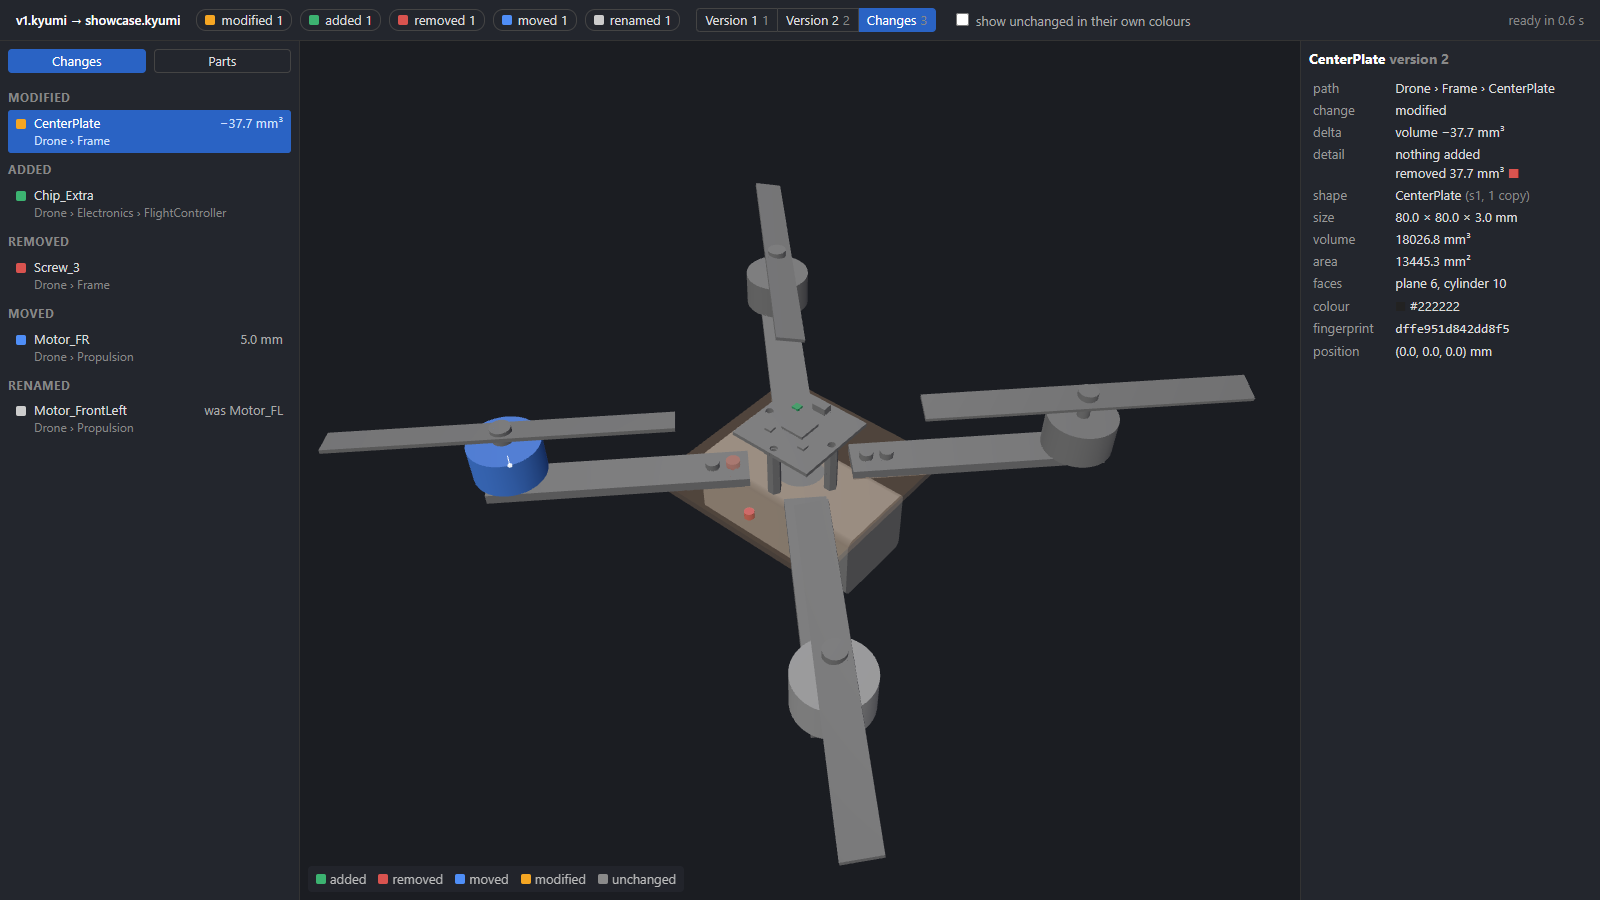
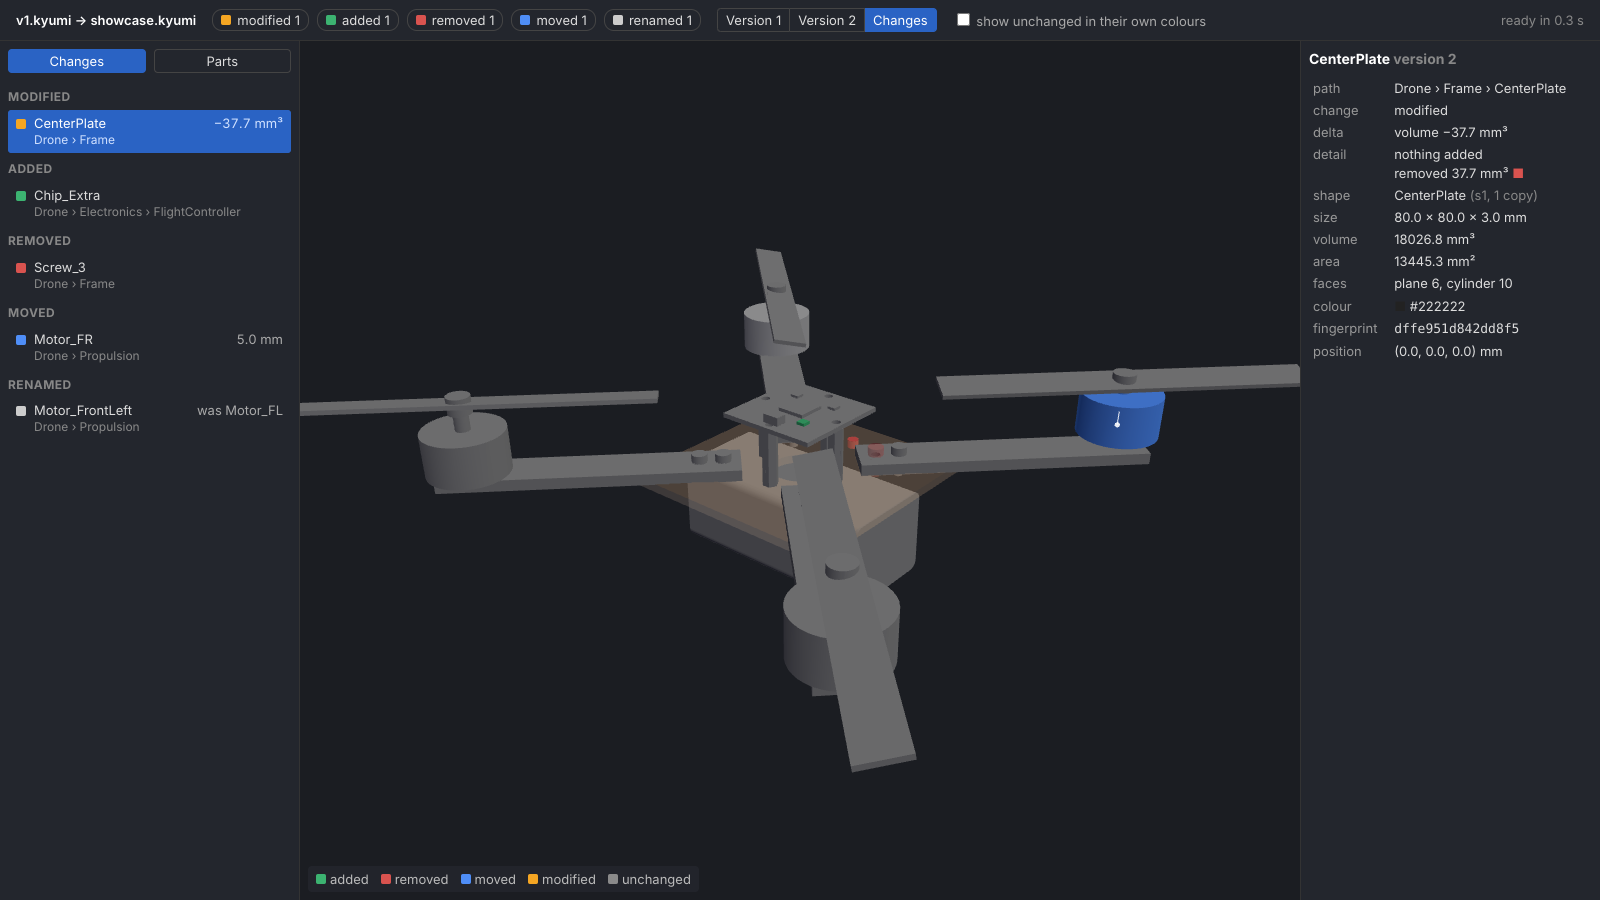
review: change list keeps a renamed part inside a moved group; ids not keys; detail only in Changes; README facts
- Change list: a part that inherits its group's move but has its own change
  (renamed) gets a row under that change; the chip said "renamed 1" and the
  list was empty.
- /changes.json: every status / old_status entry carries its parent id (same id
  space). The page walks the old tree and finds a removed row's parent by id;
  the key-prefix lookups are gone (keys collide: literal "Screw#1").
- Version 2 is the new model only: the red/green detail and the see-through part
  belong to Changes.
- Pressing 1 then 2 while Version 1 loads ends in Version 2 (last key wins).
- In Version 1 the selected change-list row stays lit (matched new id).
- Mode buttons no longer read "Version 1 1"; keys are in the tooltip and the
  info panel; one-file mode no longer advertises 1 / 2 / 3.
- README: real kyumi diff output, Python 3.11 or newer (py -m venv), the
  5,000-part number labelled synthetic and moved out of the real-model results,
  categorize described as categorizing, no "ten questions". Screenshots retaken.

Claude-Session: https://claude.ai/code/session_01KLxKaUQct9DFA2YFuACEbV

diff --git a/core/kyumi/viewer.html b/core/kyumi/viewer.html
@@ -20,7 +20,6 @@
   #modes button:first-child { border-radius: 4px 0 0 4px; }
   #modes button:last-child { border-radius: 0 4px 4px 0; }
   #modes button + button { border-left: none; }
-  #modes kbd { color: #888; font: inherit; margin-left: 4px; }
   #top label { color: #aaa; cursor: pointer; white-space: nowrap; }
   #ready { margin-left: auto; color: #888; white-space: nowrap; }
   #loading { color: #f5a623; white-space: nowrap; }
@@ -74,9 +73,9 @@
   <span id="files">loading…</span>
   <span id="chips"></span>
   <span id="modes" class="hidden">
-    <button data-mode="v1">Version 1<kbd>1</kbd></button>
-    <button data-mode="v2">Version 2<kbd>2</kbd></button>
-    <button data-mode="changes">Changes<kbd>3</kbd></button>
+    <button data-mode="v1" title="key 1">Version 1</button>
+    <button data-mode="v2" title="key 2">Version 2</button>
+    <button data-mode="changes" title="key 3">Changes</button>
   </span>
   <label id="unchangedLine" class="hidden"><input type="checkbox" id="unchanged"> show unchanged in their own colours</label>
   <span id="loading"></span>
@@ -211,7 +210,6 @@ if (diff) {
 // chosen, so the page is ready as fast as with one package.
 let oldModel = null;                          // /old/model.json, once loaded
 const oldById = new Map();                    // old id -> old node
-const oldChildrenOf = oldId => (oldModel ? oldModel.nodes.filter(n => n.parent === oldId) : []);
 const oldMeshes = new Map();                  // "old:<id>" -> THREE.Mesh (hidden unless mode is v1)
 let oldLoading = null;                        // the promise, so two quick presses load once
 function ensureOld() {
@@ -301,15 +299,19 @@ function applyMode() {
   for (const mesh of oldMeshes.values()) mesh.visible = v1;
   for (const mesh of ghosts.values()) mesh.visible = mode === "changes";
   for (const line of moveLines) line.visible = mode === "changes";
-  for (const mesh of detailMeshes) mesh.visible = !v1;
+  for (const mesh of detailMeshes) mesh.visible = mode === "changes";
   for (const b of document.querySelectorAll("#modes button")) b.classList.toggle("on", b.dataset.mode === mode);
 }
 
 // The selected part follows the switch when it exists on the other side; the
-// camera stays where it is.
+// camera stays where it is. The last key pressed wins: pressing 1 then 2 while
+// Version 1 is still loading ends in Version 2.
+let wanted = mode;
 async function setMode(next) {
-  if (!diff || next === mode) return;
+  if (!diff) return;
+  wanted = next;
   if (next === "v1") await ensureOld();
+  if (next !== wanted || next === mode) return;
   const was = selected;
   mode = next;
   applyMode();
@@ -384,13 +386,21 @@ function descendants(id) {
   for (const child of childrenOf(id)) out.push(...descendants(child.id));
   return out;
 }
-// Old descendants come from old_status keys (every old node has one), so a removed
-// group's ghosts can be found before /old/model.json has been fetched.
+// Old descendants come from old_status parent ids (every old node has an entry), so
+// a removed group's ghosts can be found before /old/model.json has been fetched.
+// By id, never by key: a literal "Screw#1" and the second "Screw" share a key.
+const oldChildIds = new Map();                // old id -> its children's old ids
+if (diff) {
+  for (const [id, s] of Object.entries(diff.old_status)) {
+    if (s.parent === null) continue;
+    if (!oldChildIds.has(s.parent)) oldChildIds.set(s.parent, []);
+    oldChildIds.get(s.parent).push(id);
+  }
+}
 function oldDescendants(oldId) {
-  const prefix = oldStatusOf(oldId).old_key;
-  return Object.entries(diff.old_status)
-    .filter(([, s]) => s.old_key.length >= prefix.length && prefix.every((k, i) => s.old_key[i] === k))
-    .map(([id]) => "old:" + id);
+  const out = ["old:" + oldId];
+  for (const child of oldChildIds.get(oldId) || []) out.push(...oldDescendants(child));
+  return out;
 }
 
 function select(id, reveal = true) {
@@ -404,14 +414,15 @@ function select(id, reveal = true) {
   for (const [nodeId, mesh] of meshes) { glow(mesh, lit.has(nodeId), 0.2); mesh.material.opacity = 1; }
   for (const [oldId, mesh] of oldMeshes) glow(mesh, lit.has(oldId), 0.2);
   for (const [ghostId, mesh] of ghosts) glow(mesh, lit.has(ghostId), 0.5);
-  const treeId = isOld ? oldStatusOf(id.slice(4)).new_id || null : id;  // the tree lists new ids
-  for (const row of document.querySelectorAll("#parts li > div")) {
+  // The tree and the change list name parts by new id (removed ones by "old:<id>"),
+  // so an old selection in Version 1 lights the row of its matched new id.
+  const treeId = isOld ? oldStatusOf(id.slice(4)).new_id || null : id;
+  for (const row of document.querySelectorAll("#parts li > div, .change")) {
     row.classList.toggle("selected", row.dataset.id === id || row.dataset.id === treeId);
   }
-  for (const row of document.querySelectorAll(".change")) row.classList.toggle("selected", row.dataset.id === id);
   for (const mesh of detailMeshes.splice(0)) scene.remove(mesh);
   if (id && !isOld && reveal) revealInTree(id);
-  if (id && !isOld) showDetail(id);
+  if (id && !isOld && mode === "changes") showDetail(id);   // detail belongs to Changes only
   showInfo(id);
 }
 
@@ -441,7 +452,7 @@ async function showDetail(id) {
     const mesh = new THREE.Mesh(geo, new THREE.MeshStandardMaterial({ color: colour, metalness: 0.1, roughness: 0.5 }));
     mesh.matrixAutoUpdate = false;
     mesh.matrix.fromArray(node.world);
-    mesh.visible = mode !== "v1";
+    mesh.visible = mode === "changes";
     scene.add(mesh);
     detailMeshes.push(mesh);
   }
@@ -468,21 +479,21 @@ function fmt(x, digits = 1) { return Number(x).toFixed(digits); }
 const signed = v => (v < 0 ? "−" : "+") + fmt(Math.abs(v));
 const keyText = key => key.map(k => k || "(unnamed)").join(" › ");
 
-// One row per change: a moved group is one row (its parts only inherit), an added
-// or removed group is one row (its parts are inside it).
+// One row per change. A part that only rides along with its moved group has no row
+// of its own (the group's row covers it), but one with its own change inside that
+// group (renamed) keeps a row under that change. An added or removed group is one
+// row (its parts are inside it). Parents are looked up by id, never by key.
 function changeRows() {
   const rows = [];
   for (const [id, st] of Object.entries(diff.status)) {
-    if (!st.class || st.inherited) continue;
-    const parent = byId.get(id).parent;
-    if (st.class === "added" && parent && statusOf(parent).class === "added") continue;
-    rows.push({ id, kind: st.class, kinds: st.class === "added" ? ["added"] : st.tags, key: st.new_key, st });
+    const kind = st.inherited ? KINDS.find(k => st.tags.includes(k)) : st.class;
+    if (!kind) continue;
+    if (kind === "added" && st.parent !== null && statusOf(st.parent).class === "added") continue;
+    rows.push({ id, kind, kinds: kind === "added" ? ["added"] : st.tags, key: st.new_key, st });
   }
   for (const [oldId, st] of Object.entries(diff.old_status)) {
     if (st.class !== "removed") continue;
-    const parentKey = st.old_key.slice(0, -1);
-    const parent = Object.values(diff.old_status).find(s => s.old_key.length === parentKey.length && s.old_key.every((k, i) => k === parentKey[i]));
-    if (parent && parent.class === "removed") continue;
+    if (st.parent !== null && oldStatusOf(st.parent).class === "removed") continue;
     rows.push({ id: "old:" + oldId, kind: "removed", kinds: ["removed"], key: st.old_key, st });
   }
   rows.sort((a, b) => KINDS.indexOf(a.kind) - KINDS.indexOf(b.kind) || keyText(a.key).localeCompare(keyText(b.key)));
@@ -659,7 +670,8 @@ function showInfo(id) {
   const info = $("info");
   if (!id) {
     const hint = diff ? "Click a change in the list, or a part in the 3D view." : "Click a part in the 3D view or in the tree.";
-    info.innerHTML = `<h2>Nothing selected</h2><p class="dim">${hint}<br>${model.nodes.length} nodes, ${Object.keys(model.shapes).length} unique shapes.<br>Keys: 1 / 2 / 3 modes, F frame, Esc clear.</p>`;
+    const keys = diff ? "Keys: 1 / 2 / 3 modes, F frame, Esc clear." : "Keys: F frame, Esc clear.";
+    info.innerHTML = `<h2>Nothing selected</h2><p class="dim">${hint}<br>${model.nodes.length} nodes, ${Object.keys(model.shapes).length} unique shapes.<br>${keys}</p>`;
     return;
   }
   const isOld = id.startsWith("old:");

diff --git a/diff/tests/test_view.py b/diff/tests/test_view.py
@@ -222,6 +222,13 @@ def test_every_old_node_gets_the_class_expected_json_implies(
         assert entry["class"] != "added"
     for entry in payload["status"].values():
         assert entry["class"] != "removed"
+    # Each entry's parent is an id of its own version (the page walks trees by id).
+    assert {i: s["parent"] for i, s in payload["old_status"].items()} == {
+        n.id: n.parent for n in old.nodes
+    }
+    assert {i: s["parent"] for i, s in payload["status"].items()} == {
+        n.id: n.parent for n in new.nodes
+    }
 
 
 def test_rotate_inherits_the_move_on_the_old_side_too(

diff --git a/diff/kyumi_diff/view.py b/diff/kyumi_diff/view.py
@@ -126,6 +126,7 @@ def side_status(
             "inherited": inherited,
             f"{this_side}_key": index.key[node.id],
             f"{other_side}_key": getattr(own, other_side) if own else None,
+            "parent": node.parent,  # same id space as this entry: keys can collide, ids can't
             partner_field: partner_of.get(node.id),
         }
         if details is not None and own and "modified" in own.tags and node.shape is not None:

diff --git a/README.md b/README.md
@@ -2,8 +2,8 @@
 
 A trial of two features for Kyumi ("GitHub for engineers"): **DIFF** — compare
 two versions of a 3D CAD assembly and say what was added, removed, moved,
-renamed or modified — and **CATEGORIZE** — sort the parts of a model into a
-flowchart-like view. Diff is built and measured on a real 316-part model;
+renamed or modified — and **CATEGORIZE** — sort the parts of a model into
+categories automatically instead of by hand. Diff is built and measured on a real 316-part model;
 categorize is planned ([docs/categorize-plan.md](docs/categorize-plan.md)).
 `core/` (a STEP importer and a small viewer) is scaffolding so there is
 something runnable here: Kyumi has its own loader and viewer, and the diff talks
@@ -13,14 +13,16 @@ to them only through one small API (see [What Kyumi would reuse](#what-kyumi-wou
 
 ## Try it in 5 minutes
 
-You need Python 3.11 and `git`. Everything below runs offline except the
-first `pip install` and the viewer's three.js download.
+You need Python 3.11 or newer (tested on 3.11 and 3.13; check with
+`py --version` on Windows, `python3 --version` on Mac) and `git`. Everything
+below runs offline except the first `pip install` and the viewer's three.js
+download.
 
-Windows (Command Prompt):
+Windows (Command Prompt; if `py` is not found, use `python` instead):
 
 ```bat
 git clone https://github.com/nex0517/cad-tools.git && cd cad-tools
-py -3.11 -m venv .venv && .venv\Scripts\activate
+py -m venv .venv && .venv\Scripts\activate
 pip install -e core -e diff
 kyumi import fixtures\pairs\drone\v1.step -o v1.kyumi
 kyumi import fixtures\pairs\drone\showcase.step -o showcase.kyumi
@@ -32,7 +34,7 @@ Mac / Linux:
 
 ```sh
 git clone https://github.com/nex0517/cad-tools.git && cd cad-tools
-python3.11 -m venv .venv && source .venv/bin/activate
+python3 -m venv .venv && source .venv/bin/activate
 pip install -e core -e diff
 kyumi import fixtures/pairs/drone/v1.step -o v1.kyumi
 kyumi import fixtures/pairs/drone/showcase.step -o showcase.kyumi
@@ -51,7 +53,12 @@ kind: a chip added, a screw removed, a motor moved 5 mm, a motor renamed and a
 4 mm hole drilled through the centre plate. `kyumi diff` should print:
 
 ```
-added 1, removed 1, moved 1, renamed 1, modified 1
+added 1  removed 1  moved 1  renamed 1  modified 1  re-parented 0
+modified  Drone › Frame › CenterPlate  volume -37.7 mm³
+renamed  Drone › Propulsion › Motor_FL  →  Drone › Propulsion › Motor_FrontLeft
+moved  Drone › Propulsion › Motor_FR  by 5.0 mm
+added  Drone › Electronics › FlightController › Chip_Extra
+removed  Drone › Frame › Screw_3
 ```
 
 ## What you're looking at
@@ -68,7 +75,7 @@ added 1, removed 1, moved 1, renamed 1, modified 1
   name, where it sits and the size of the change (`5.0 mm`, `−736.2 mm³`).
   Click a row and the camera flies to the part; click a chip in the top bar to
   filter the list to one kind. The *Parts* tab is the plain assembly tree.
-- **Exact detail.** Select the modified part: it turns see-through and the
+- **Exact detail.** Select the modified part in *Changes*: it turns see-through and the
   material that was removed is drawn in solid red (added material in green),
   computed from the exact B-rep geometry, not from the meshes.
 
@@ -105,10 +112,13 @@ Measured on a 316-part, 335-node assembly (CPT17, not committed; details in
 - Diff of two versions: well under a second (`/changes.json` is built in 0.02 s;
   the end-to-end numbers in the table are dominated by reading the packages).
 - Every generated pair (no change, rename, move, delete, modify) came out
-  exactly as expected; a 4,000-part stress pair diffs in 0.4 s.
+  exactly as expected.
 - Exact detail of a drilled hole: 736.2 mm³ removed, 0.0 added, within 1 % of
   the true volume, in 2.8 s.
 - Viewer page ready in 2.4–3.5 s.
+
+Separately, a synthetic 5,000-part model (the drone tiled 162 times, every tile
+with the same names) diffs in 0.4 s including loading.
 
 ## What Kyumi would reuse
 
@@ -117,7 +127,7 @@ Not the importer or the page. The reusable boundary is:
 - `load()` and the `Model` / `Node` / `Shape` API (`core/kyumi/model.py`): the
   diff reads a model only through it — tree, per-parent transforms, names,
   colours, measurements and the exact geometry — so it can be pointed at Kyumi's
-  own loader. The ten questions that decides are in
+  own loader. What exactly it uses is listed in
   [docs/diff-plan.md](docs/diff-plan.md#what-i-need-from-core).
 - `/changes.json`: every part's status in both versions, ghosts and moves, in
   one JSON the viewer paints without deciding anything.

diff --git a/docs/diff-plan.md b/docs/diff-plan.md
@@ -238,11 +238,13 @@ imports it) and the page only paints `/changes.json`:
   "summary": {"added": 0, "removed": 0, "moved": 1, "renamed": 0, "modified": 0, "re-parented": 0},
   "status": {"n18": {"class": "moved", "tags": ["moved"], "delta": {"distance": 5.0},
                      "inherited": false, "old_key": ["Drone", "Propulsion", "Motor_FR"],
-                     "new_key": ["Drone", "Propulsion", "Motor_FR"], "old_id": "n18"},
+                     "new_key": ["Drone", "Propulsion", "Motor_FR"], "parent": "n16",
+                     "old_id": "n18"},
              "n2":  {"class": "moved", "tags": [], "delta": {}, "inherited": true, "...": "..."}},
   "old_status": {"n18": {"class": "moved", "...": "...", "new_id": "n18"},
                  "n9": {"class": "removed", "tags": [], "delta": {}, "inherited": false,
-                        "old_key": ["Drone", "Frame", "Screw_3"], "new_key": null, "new_id": null}},
+                        "old_key": ["Drone", "Frame", "Screw_3"], "new_key": null,
+                        "parent": "n1", "new_id": null}},
   "ghosts": [{"old_id": "n9", "key": ["Drone", "Frame", "Screw_3"], "name": "Screw_3",
               "mesh": "/old/meshes/s3.glb", "world": [16 numbers, column-major], "volume": 1.2, "size": [3]}],
   "moves": [{"new_id": "n18", "old_id": "n18", "from": [x, y, z], "to": [x, y, z], "distance": 5.0}]
@@ -258,7 +260,9 @@ the **old** tree and keyed by **old** ids (`removed` instead of `added`, moves
 inherited the same way, so rotating `Frame` colours all of it in both
 versions); each entry names its partner in the other version (`old_id` /
 `new_id`, `null` when there is none), which is how a selection survives a mode
-switch. Old and new ids collide, so the page keeps them in separate maps
+switch, and its `parent` id in its own version, so the page walks the old tree
+(a removed group's ghosts) by id before `/old/model.json` is fetched, never by
+key (keys can collide). Old and new ids collide, so the page keeps them in separate maps
 (`old:<id>`) and old files live only under `/old/`: `/old/model.json` and
 `/old/meshes/<id>.glb`, both in diff mode only. A moved group's centre is the
 mean of its parts' centres.
